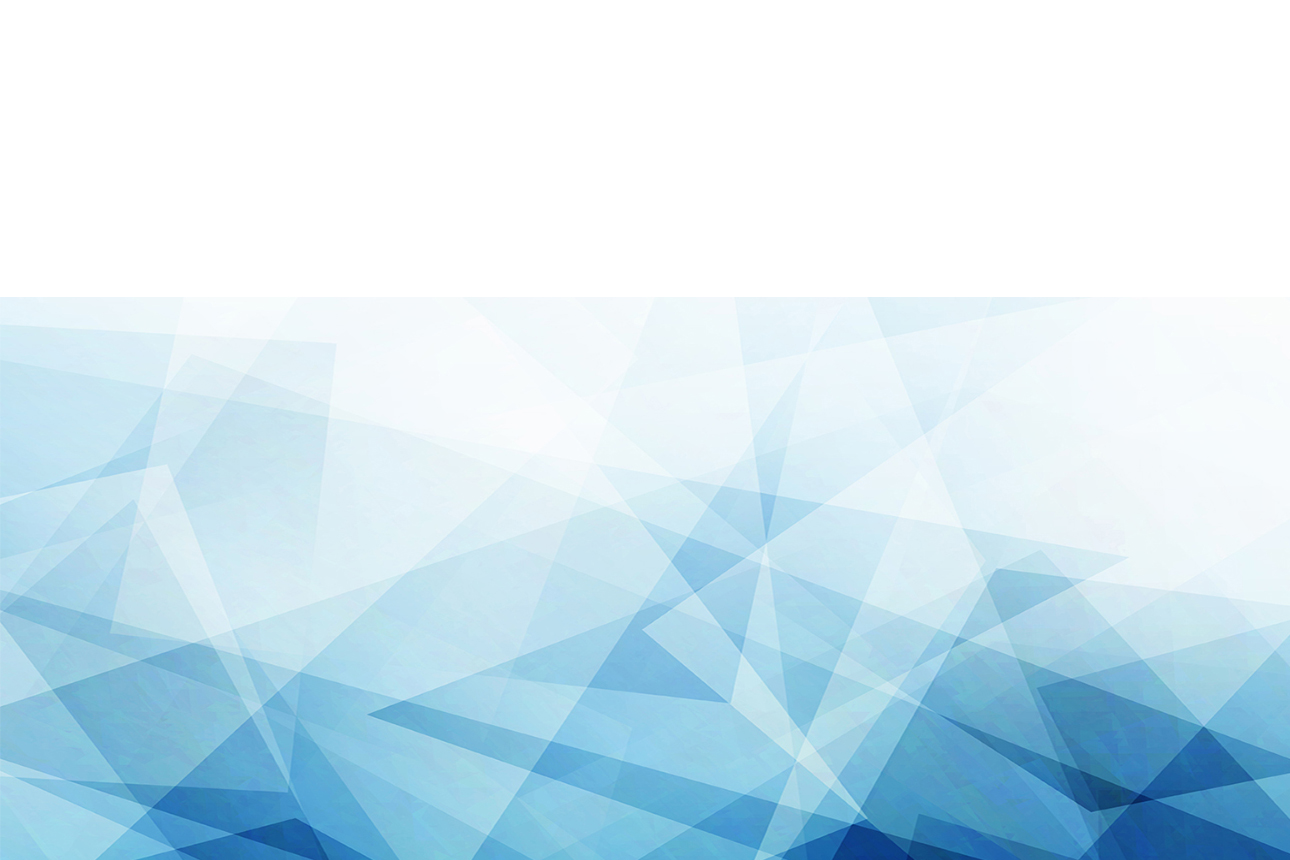
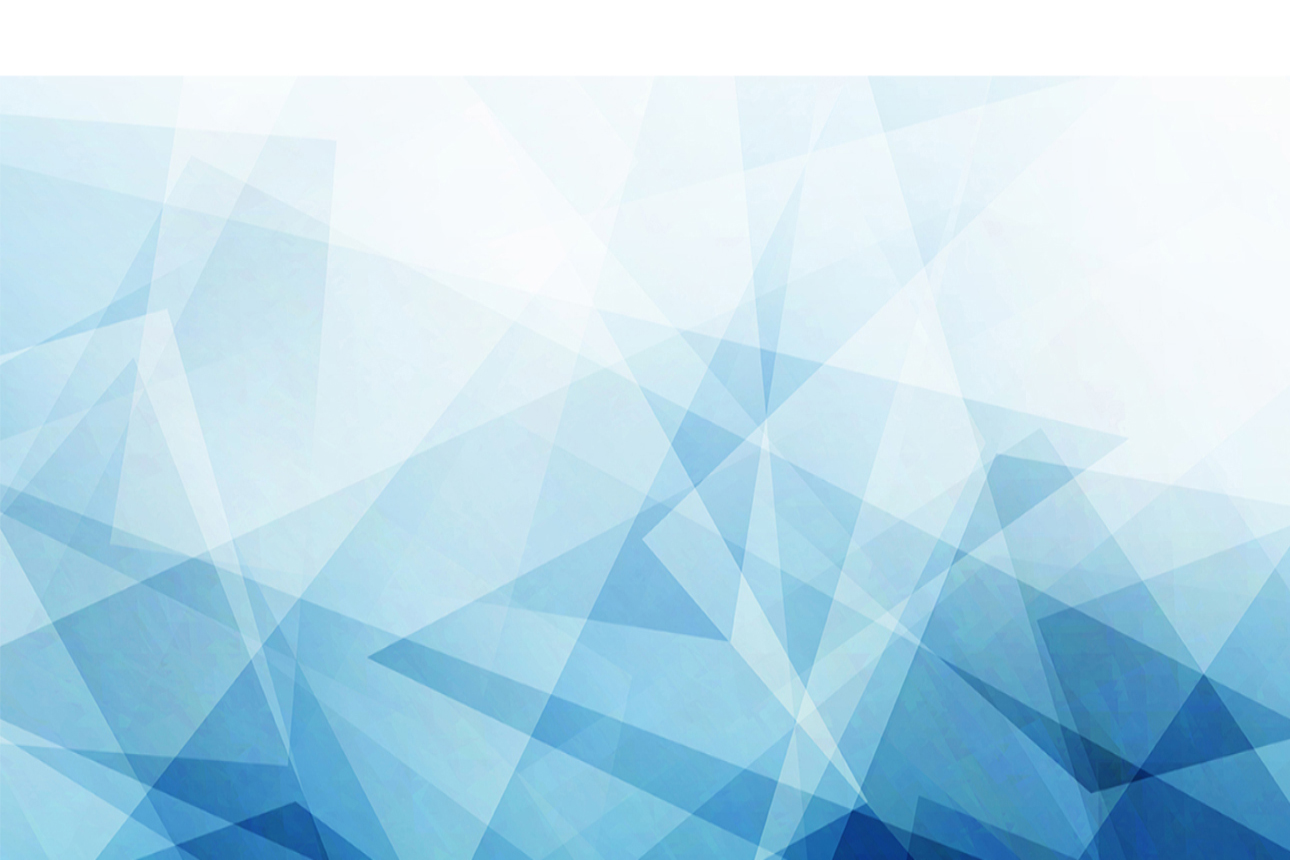
Changed white space in footer and added links to open portfolio in new window

diff --git a/portfolio.html b/portfolio.html
@@ -76,15 +76,15 @@
       <div class="container-fluid">
         <div id="grid" class="row portfolio-items">
           <div data-groups="[&quot;website&quot, &quot;branding&quot;]" class="col-sm-3">
-            <div class="portfolio-item"><a href="portfolio-single.html"><img src="img/portfolio/AAHC.jpg" alt="">
+            <div class="portfolio-item"><a href="http://www.aggielandanimalhealthcenter.com/" target="_blank"><img src="img/portfolio/AAHC.jpg" alt="">
                 <div class="portfolio-overlay">
                   <div class="caption">
-                    <h5>AAHC</h5><span>Lorem ipsum dolor sit amet</span>
+                    <h5>Aggieland Animal Health Center</h5><span>Lorem ipsum dolor sit amet</span>
                   </div>
                 </div></a></div>
           </div>
           <div data-groups="[&quot;website&quot;, &quot;branding&quot;]" class="col-sm-3">
-            <div class="portfolio-item"><a href="portfolio-single.html"><img src="img/portfolio/ealey-tack.jpg" alt="">
+            <div class="portfolio-item"><a href="http://ealeytack.com/" target="_blank"><img src="img/portfolio/ealey-tack.jpg" alt="">
                 <div class="portfolio-overlay">
                   <div class="caption">
                     <h5>Ealey Tack</h5><span>Lorem ipsum dolor sit amet</span>
@@ -92,7 +92,7 @@
                 </div></a></div>
           </div>
           <div data-groups="[&quot;website&quot;, &quot;printing&quot;]" class="col-sm-3">
-            <div class="portfolio-item"><a href="portfolio-single.html"><img src="img/portfolio/Elliot-Capo.jpg" alt="">
+            <div class="portfolio-item"><a href="https://elliottcapo.com/" target="_blank"><img src="img/portfolio/Elliot-Capo.jpg" alt="">
                 <div class="portfolio-overlay">
                   <div class="caption">
                     <h5>Elliot Capo</h5><span>Lorem ipsum dolor sit amet</span>
@@ -100,7 +100,7 @@
                 </div></a></div>
           </div>
           <div data-groups="[&quot;website&quot;, &quot;website&quot;]" class="col-sm-3">
-            <div class="portfolio-item"><a href="portfolio-single.html"><img src="img/portfolio/Foster-Hunting-Club.jpg" alt="">
+            <div class="portfolio-item"><a href="https://fosterhuntingclub.com/" target="_blank"><img src="img/portfolio/Foster-Hunting-Club.jpg" alt="">
                 <div class="portfolio-overlay">
                   <div class="caption">
                     <h5>Foster Hunting Club</h5><span>Lorem ipsum dolor sit amet</span>
@@ -108,7 +108,7 @@
                 </div></a></div>
           </div>
           <div data-groups="[&quot;website&quot;, &quot;website&quot;]" class="col-sm-3">
-            <div class="portfolio-item"><a href="portfolio-single.html"><img src="img/portfolio/Hogsback-Ranch.jpg" alt="">
+            <div class="portfolio-item"><a href="http://www.hogsbackranch.com/" target="_blank"><img src="img/portfolio/Hogsback-Ranch.jpg" alt="">
                 <div class="portfolio-overlay">
                   <div class="caption">
                     <h5>Hogsback Ranch</h5><span>Lorem ipsum dolor sit amet</span>
@@ -116,15 +116,15 @@
                 </div></a></div>
           </div>
           <div data-groups="[&quot;website&quot;, &quot;branding&quot;]" class="col-sm-3">
-            <div class="portfolio-item"><a href="portfolio-single.html"><img src="img/portfolio/IQHA.jpg" alt="">
+            <div class="portfolio-item"><a href="http://www.iqha.com/" target="_blank"><img src="img/portfolio/IQHA.jpg" alt="">
                 <div class="portfolio-overlay">
                   <div class="caption">
-                    <h5>IQHA</h5><span>Lorem ipsum dolor sit amet</span>
+                    <h5>Indiana Quarter Horse Association</h5><span>Lorem ipsum dolor sit amet</span>
                   </div>
                 </div></a></div>
           </div>
           <div data-groups="[&quot;website&quot;]" class="col-sm-3">
-            <div class="portfolio-item"><a href="portfolio-single.html"><img src="img/portfolio/Montana-Air-Adventures.jpg" alt="">
+            <div class="portfolio-item"><a href="http://montanaairadventures.com/" target="_blank"><img src="img/portfolio/Montana-Air-Adventures.jpg" alt="">
                 <div class="portfolio-overlay">
                   <div class="caption">
                     <h5>Montana Air Adventures</h5><span>Lorem ipsum dolor sit amet</span>
@@ -132,7 +132,7 @@
                 </div></a></div>
           </div>
           <div data-groups="[&quot;website&quot]" class="col-sm-3">
-            <div class="portfolio-item"><a href="portfolio-single.html"><img src="img/portfolio/Ortho-Equine.jpg" alt="">
+            <div class="portfolio-item"><a href="http://orthoequine.com/" target="_blank"><img src="img/portfolio/Ortho-Equine.jpg" alt="">
                 <div class="portfolio-overlay">
                   <div class="caption">
                     <h5>Ortho Equine</h5><span>Lorem ipsum dolor sit amet</span>
@@ -140,7 +140,7 @@
                 </div></a></div>
           </div>
            <div data-groups="[&quot;website&quot]" class="col-sm-3">
-            <div class="portfolio-item"><a href="portfolio-single.html"><img src="img/portfolio/Pebble-Creek-Land-Co.jpg" alt="">
+            <div class="portfolio-item"><a href="http://pebblecreektx.com/" target="_blank"><img src="img/portfolio/Pebble-Creek-Land-Co.jpg" alt="">
                 <div class="portfolio-overlay">
                   <div class="caption">
                     <h5>Pebble Creek Land Co</h5><span>Lorem ipsum dolor sit amet</span>
@@ -148,15 +148,15 @@
                 </div></a></div>
           </div>
            <div data-groups="[&quot;website&quot]" class="col-sm-3">
-            <div class="portfolio-item"><a href="portfolio-single.html"><img src="img/portfolio/premier-equine.jpg" alt="">
+            <div class="portfolio-item"><a href="http://www.premierequinevet.com/" target="_blank"><img src="img/portfolio/premier-equine.jpg" alt="">
                 <div class="portfolio-overlay">
                   <div class="caption">
-                    <h5>Priemer Equine</h5><span>Lorem ipsum dolor sit amet</span>
+                    <h5>Priemer Equine Vetrinary Services and Sports Medicine</h5><span>Lorem ipsum dolor sit amet</span>
                   </div>
                 </div></a></div>
           </div>
            <div data-groups="[&quot;website&quot]" class="col-sm-3">
-            <div class="portfolio-item"><a href="portfolio-single.html"><img src="img/portfolio/QP-Energy.jpg" alt="">
+            <div class="portfolio-item"><a href="http://www.qpenergyservices.com/" target="_blank"><img src="img/portfolio/QP-Energy.jpg" alt="">
                 <div class="portfolio-overlay">
                   <div class="caption">
                     <h5>QP Energy</h5><span>Lorem ipsum dolor sit amet</span>
@@ -164,7 +164,7 @@
                 </div></a></div>
           </div>
            <div data-groups="[&quot;website&quot]" class="col-sm-3">
-            <div class="portfolio-item"><a href="portfolio-single.html"><img src="img/portfolio/TQHA-stallion-auction.jpg" alt="">
+            <div class="portfolio-item"><a href="http://tqhastallionauction.com/" target="_blank"><img src="img/portfolio/TQHA-stallion-auction.jpg" alt="">
                 <div class="portfolio-overlay">
                   <div class="caption">
                     <h5>TQHA Stallion Auction</h5><span>Lorem ipsum dolor sit amet</span>
